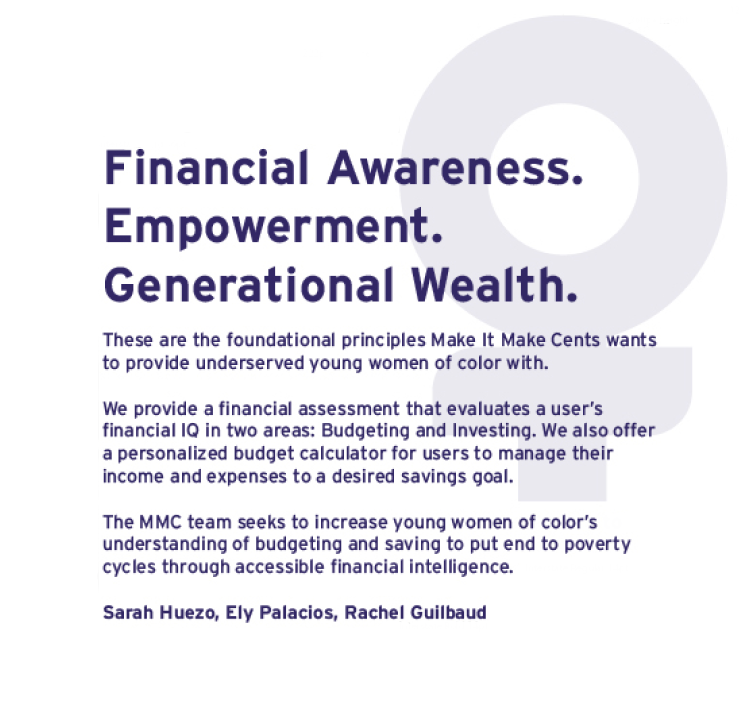
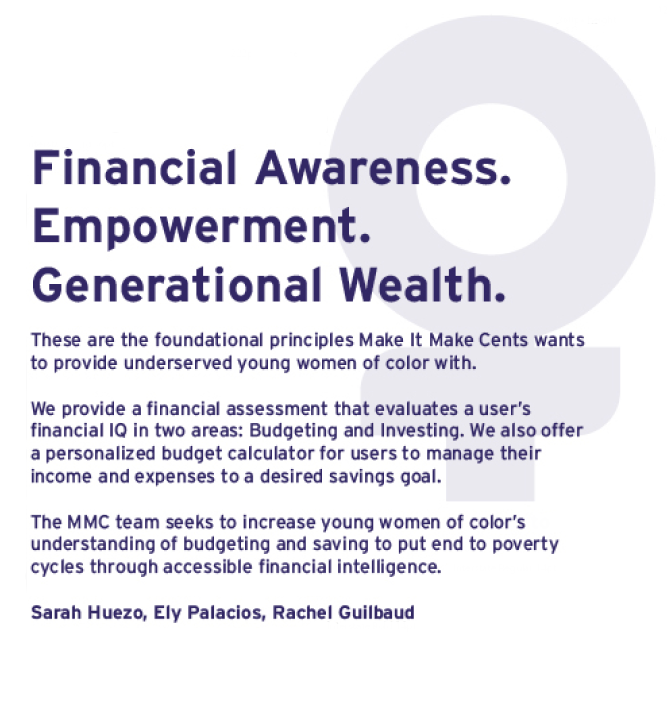
fixed positioning

diff --git a/frontend/src/App.css b/frontend/src/App.css
@@ -1,13 +1,13 @@
 .container {
   box-sizing: content-box;
-  width: 100%;
+  width: 115%;
   display: flex;
   justify-content: flex-start;
   flex-direction: column;
 }
 
 .welcome .welcome {
-  margin-left: 130%;
+  margin-left: 170%;
   color: Navy;
   text-align: center;
   border-style: none;
@@ -41,7 +41,6 @@
   background-color: lavender;
   padding-bottom: 8px;
 }
-
 .welcome .password {
   margin-left: 50%;
   color: Navy;
@@ -57,7 +56,7 @@
 }
 
 .welcome .signin {
-  margin-left: 53%;
+  margin-left: 54%;
   color: white;
   text-align: center;
   height: 35px;
@@ -78,22 +77,22 @@
 }
 
 .welcome .position {
-  width: 600px;
+  width: 625px;
   display: flex;
   flex-direction: row;
-  flex-wrap: wrap;
+  justify-content: flex-start;
+  align-self: flex-start;
   position: absolute;
 }
 
 .welcome .newusers {
-  margin-left: 9%;
+  margin-left: 7%;
   color: Navy;
   text-align: center;
   border-style: none;
   font-size: 16pt;
   font-family: verdana;
   font-style: bold;
-  
 }
 .welcome .name {
   margin-left: 50%;
@@ -123,7 +122,7 @@
 }
 
 .welcome .register {
-  margin-left: 53%;
+  margin-left: 54%;
   color: white;
   text-align: center;
   height: 35px;

diff --git a/frontend/src/App.js b/frontend/src/App.js
@@ -24,6 +24,9 @@ function App() {
         <div className="password">
           <p>Password</p>
         </div>
+        <div>
+          <img src={require('./welcomepage.png')} className="position" />
+        </div>
         <nav>
           <Link to="/Home">
             <div className="signin">
@@ -31,9 +34,6 @@ function App() {
             </div>
           </Link>
         </nav>
-        <div>
-          <img src={require('./welcomepage.png')} className="position" />
-        </div>
         <div className="line">
           <hr></hr>
         </div>
